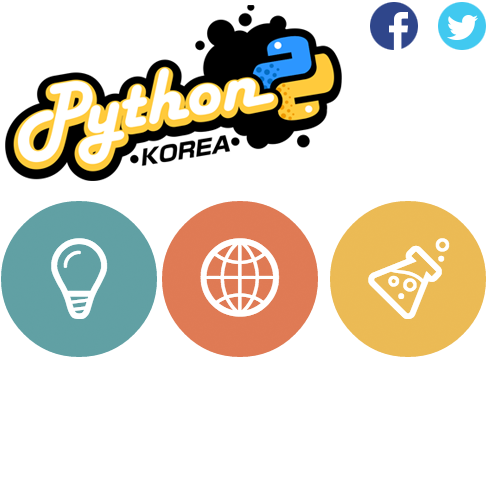
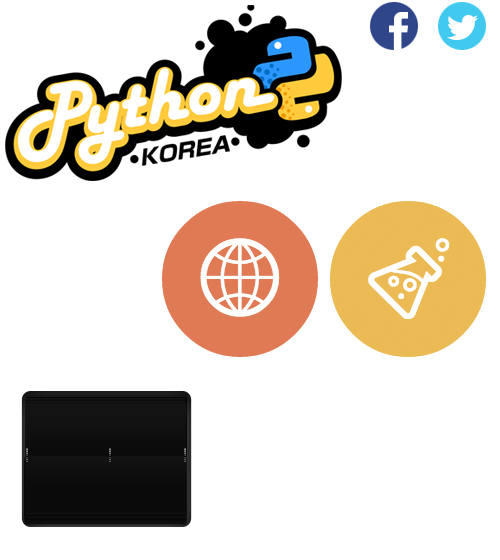
main

diff --git a/_prototype/index.html b/_prototype/index.html
@@ -40,10 +40,11 @@
             <h1>파이콘 코리아</h1>
             <nav id="nav">
                 <ul>
-                    <li><a href="">about</a></li>
-                    <li><a href="">program</a></li>
-                    <li><a href="">sponsors</a></li>
-                    <li><a href="">venue</a></li>
+                    <li><a href="#about" data-scroll="about">about</a></li>
+                    <li><a href="#program" data-scroll="program">program</a></li>
+                    <li><a href="#speaker" data-scroll="speaker">speaker</a></li>
+                    <li><a href="#partner" data-scroll="partner">partner</a></li>
+                    <li><a href="#venue" data-scroll="venue">venue</a></li>
                 </ul>
             </nav>
 
@@ -54,8 +55,18 @@
             </div>
         </div>
     </header>
+
+    <section id="main">
+        <div class="container-fluid">
+            <h1>파이썬 코리아 컨퍼런스 2014<span>PYCON KOREA <b>MAY 9TH - 13TH</b> in Seoul</span></h1>
+            <div id="countdown">
+                
+            </div>
+            <a class="register">REGISTER NOW<span>please register for more information</span></a>
+        </div>
+    </section>
     
-    <section id="about">
+    <section id="about" data-anchor="about">
         <div class="container-fluid">
             <h2>About</h2>
             <h3>The Korea Python Community Conference</h3>
@@ -86,7 +97,7 @@
         </div>
     </section>
 
-    <section id="program">
+    <section id="program" data-anchor="program">
         <div class="wrapper">
             <h2>PROGRAM</h2>
             <ul>
@@ -143,7 +154,7 @@
         </div>
     </section>
 
-    <section id="speaker">
+    <section id="speaker" data-anchor="speaker">
         <div class="container-fluid">
             <h2>speakers</h2>
             <ul class="row">
@@ -175,7 +186,7 @@
         </div>
     </section>
 
-    <section id="partner">
+    <section id="partner" data-anchor="partner">
         <div class="container-fluid">
             <h2>partners</h2>
             <p class="txt">thanks for support goes to</p>

diff --git a/_prototype/sass/main.scss b/_prototype/sass/main.scss
@@ -25,16 +25,20 @@ a:hover, a:active {
 }
 
 #header {
-	position: relative;
-	height: 122px;
-}
+	position: fixed;
+	width: 100%;
+	height: 80px;
+	top: 0;
+	background: #fff;
+	z-index: 10;
 
-h1 {
-	position: absolute;
-	top: 11px;
-	left: 50%;
-	margin: 0 0 0 -87px;
-	@include spr(174px, 100px);
+	h1 {
+		position: absolute;
+		top: 11px;
+		left: 50%;
+		margin: 0 0 0 -87px;
+		@include spr(174px, 100px);
+	}
 }
 
 h2 {
@@ -59,7 +63,7 @@ section {
 	float: left;
 
 	ul {
-		margin: 19px 0 0;
+		margin: 20px 0 0;
 		@include clearfix();
 	}
 
@@ -79,7 +83,7 @@ section {
 
 .utils {
 	float: right;
-	padding-top: 19px;
+	padding-top: 25px;
 
 	a {
 		display: inline-block;
@@ -115,10 +119,58 @@ section {
 	@include box-sizing(border-box);
 }
 
+#main {
+	height: 250px;
+	margin-top: 80px;
+	background: url(../images/bg.jpg) no-repeat top center;
+	background-size: cover;
+
+	h1 {
+		font-size: 26px;
+		color: #fff;
+		text-shadow: 0 0 3px rgba(0,0,0,.8);
+
+		span {
+			display: block;
+			font-size: 15px;
+		}
+
+		b {
+			color: #fef204;
+		}
+	}
+
+	.register {
+		display: inline-block;
+		@include size(252px, 65px);
+		padding-top: 11px;
+		font-weight: bold;
+		font-size: 22px;
+		text-decoration: none;
+		background: #fff304;
+		color: #312105;
+		border-radius: 4px;
+
+		span {
+			display: block;
+			font-size: 13px;
+			font-weight: normal;
+		}
+	}
+}
+
+#countdown {
+	margin: 0 auto 24px;
+	@include spr(199px, 80px);
+	display: block;
+	background-position: 0 -190px
+}
+
 #about {
 	text-align: center;
 	font-size: 14px;
 	color: #312105;
+	background: #f7f7f7;
 
 	h2 {
 		color: #6b89f0;

diff --git a/_prototype/js/main.js b/_prototype/js/main.js
@@ -1,0 +1,27 @@
+var pyconKr = (function($) {
+		var $body = $('body'),
+		$window = $(window),
+		doc = document,
+		$link = $('#nav').find('a');
+
+	function init() {
+		$link.on('click', function() {
+			var scrollAnchor = $(this).attr('data-scroll'),
+       		scrollPoint = $('section[data-anchor="' + scrollAnchor + '"]').offset().top - 28;
+
+    		$('body,html').animate({
+        		scrollTop: scrollPoint
+    		}, 500);
+
+    		return false;
+		});
+	}
+
+	return {
+		init: init
+	};
+})(jQuery);
+
+$(document).ready(function() {
+	pyconKr.init();
+});

diff --git a/_prototype/sass/_mixins.scss b/_prototype/sass/_mixins.scss
@@ -923,6 +923,6 @@
   margin-top: -1px;
   background: url(../images/sp.png) no-repeat;
   background-repeat: no-repeat;
-  background-size: 250px 270px;
+  background-size: 250px 280px;
   @include hide-text();
 }
